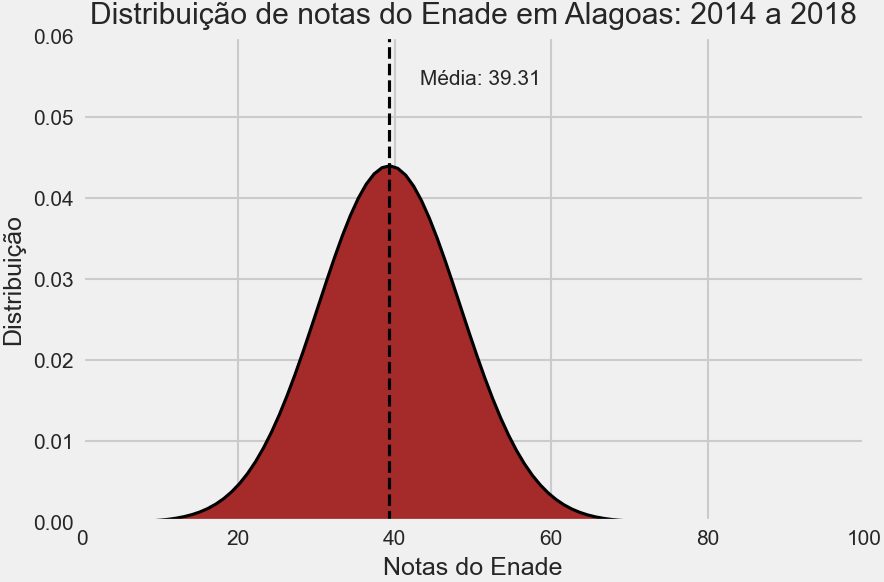
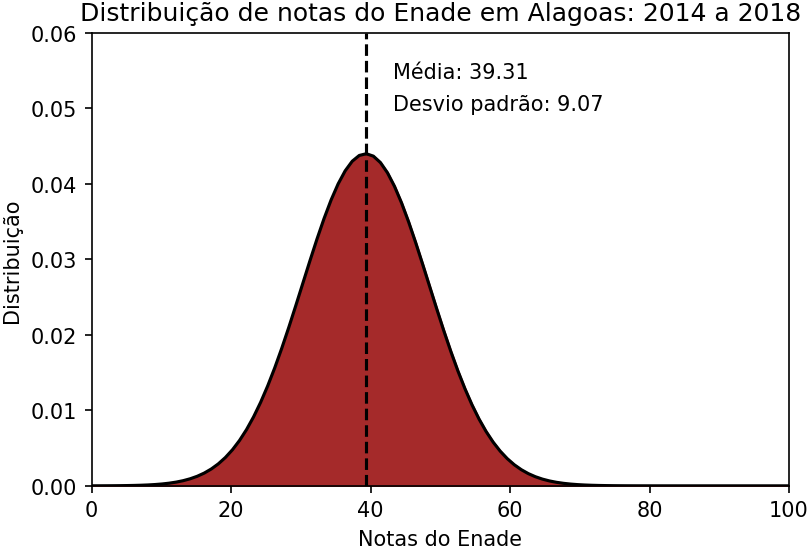
Fazendo a gaussiana.

Changed region(s): [[0.0, 0.0, 1.0, 1.0]]

diff --git a/compare_methods/analise_al.py b/compare_methods/analise_al.py
@@ -226,8 +226,280 @@ rows_stats_al = {'Version':0,
 file_stats_al = "../tcc_codes/analise_stats/AL/Stats_AL.csv"
 
 version_file(file_stats_al, fields_stats_al, rows_stats_al)
+#%% Dataframe com Questionário do estudante
+# Ref: https://pandas.pydata.org/docs/user_guide/advanced.html
+
+
+df_qe_aux = pd.DataFrame([['QE_I01', 'Estado civil','A:Solteiro(a)'],
+          ['QE_I01', 'Estado civil','B:Casado(a)'],
+          ['QE_I01', 'Estado civil','C:Separado(a)'],
+          ['QE_I01', 'Estado civil','D:Viúvo(a)'],
+          ['QE_I01', 'Estado civil','E:Outro'],
+          
+          ['QE_I02', 'Cor ou raça', 'A:Branca'],
+          ['QE_I02', 'Cor ou raça', 'B:Preta'],
+          ['QE_I02', 'Cor ou raça', 'C:Amarela'],
+          ['QE_I02', 'Cor ou raça', 'D:Parda'],
+          ['QE_I02', 'Cor ou raça', 'E:Indígena'],
+          ['QE_I02', 'Cor ou raça', 'F:Não quero declarar'],
+          
+          ['QE_I03',  'Nacionalidade?','A:Brasileira'],
+          ['QE_I03',  'Nacionalidade?','A:Brasileira naturalizada'],
+          ['QE_I03',  'Nacionalidade?','A:Estrageira'],
+          
+          ['QE_I04', 'Escolarização máxima do pai','A:Nenhuma'],
+          ['QE_I04', 'Escolarização máxima do pai','B:Fundamental: 1º ao 5º ano'],
+          ['QE_I04', 'Escolarização máxima do pai','C:Fundamental: 6º ao 9º ano'],
+          ['QE_I04', 'Escolarização máxima do pai','D:Ensino Médio'],
+          ['QE_I04', 'Escolarização máxima do pai','E:Ensino superior'],
+          ['QE_I04', 'Escolarização máxima do pai','F:Pós-graduação'],
+          
+          ['QE_I04', 'Escolarização máxima do mãe','A:Nenhuma'],
+          ['QE_I04', 'Escolarização máxima do mãe','B:Fundamental: 1º ao 5º ano'],
+          ['QE_I04', 'Escolarização máxima do mãe','C:Fundamental: 6º ao 9º ano'],
+          ['QE_I04', 'Escolarização máxima do mãe','D:Ensino Médio'],
+          ['QE_I04', 'Escolarização máxima do mãe','E:Ensino superior'],
+          ['QE_I04', 'Escolarização máxima do mãe','F:Pós-graduação'],
+          
+          ['QE_I06', 'Onde e com quem o estudante mora','A:Casa/apartamento,sozinho'],
+          ['QE_I06', 'Onde e com quem o estudante mora','B:Casa/apartamento,pais/parentes'],
+          ['QE_I06', 'Onde e com quem o estudante mora','C:Casa/apartamento,cônjugue/filhos'],
+          ['QE_I06', 'Onde e com quem o estudante mora','D:Casa/apartamento/república,com outras pessoas'],
+          ['QE_I06', 'Onde e com quem o estudante mora','E:Alojamento na IES'],
+          ['QE_I06', 'Onde e com quem o estudante mora','F:Outros (hotel,hospedaria,etc)'],
+          
+          ['QE_I07', 'Pessoas da família que moram com o estudante','A:Nenhuma'],
+          ['QE_I07', 'Pessoas da família que moram com o estudante','B:Uma'],
+          ['QE_I07', 'Pessoas da família que moram com o estudante','C:Duas'],
+          ['QE_I07', 'Pessoas da família que moram com o estudante','D:Três'],
+          ['QE_I07', 'Pessoas da família que moram com o estudante','E:Quatro'],
+          ['QE_I07', 'Pessoas da família que moram com o estudante','F:Cinco'],
+          ['QE_I07', 'Pessoas da família que moram com o estudante','G:Seis'],
+          ['QE_I07', 'Pessoas da família que moram com o estudante','H:Sete ou mais'],
+          
+          ['QE_I08', 'Renda total da família (incluindo rendimento do estudante)',
+           'A:Até R$1.431,00'],
+          ['QE_I08', 'Renda total da família (incluindo rendimento do estudante)',
+           'B:De R$1.431,01 a R$2.862,00'],
+          ['QE_I08', 'Renda total da família (incluindo rendimento do estudante)',
+           'C:De R$2.862,01 a R$4.293,00'],
+          ['QE_I08', 'Renda total da família (incluindo rendimento do estudante)',
+           'D:De R$4.293,01 a R$5.724,00'],
+          ['QE_I08', 'Renda total da família (incluindo rendimento do estudante)',
+           'E:De R$5.274,01 a R$9.540,00'],
+          ['QE_I08', 'Renda total da família (incluindo rendimento do estudante)',
+           'F:De R$9.540,01 a R$28.620,00'],
+          ['QE_I08', 'Renda total da família (incluindo rendimento do estudante)',
+           'G:Mais de R$28.620,00'],
+          
+          ['QE_I09', 'Situação financeira atual','A:Sem renda;gastos por programas do governo'],
+          ['QE_I09', 'Situação financeira atual','B:Sem renda;gastos pela família ou outras pessoas'],
+          ['QE_I09', 'Situação financeira atual','C:Com renda;recebo auxílio de outras pessoas'],
+          ['QE_I09', 'Situação financeira atual','D:Com renda;não preciso de ajuda financeira'],
+          ['QE_I09', 'Situação financeira atual','E:Com renda;ajudo a família'],
+          ['QE_I09', 'Situação financeira atual','F:Responsável pelo sustento da família'],
+          
+          ['QE_I10', 'Situação atual de trabalho','A:Não trabalho'],
+          ['QE_I10', 'Situação atual de trabalho','B:Trabalho eventualmente'],
+          ['QE_I10', 'Situação atual de trabalho','C:Até 20h/semana'],
+          ['QE_I10', 'Situação atual de trabalho','D:De 21h/semana a 39h/semana'],
+          ['QE_I10', 'Situação atual de trabalho','E:Pelo menos 40h/semana'],
+          
+          ['QE_I11', 'Tipo de financiamento recebido p/ custeio das mensalidades',
+           'A:Nenhum;curso gratuito'],
+          ['QE_I11', 'Tipo de financiamento recebido p/ custeio das mensalidades',
+           'B:Nenhum;curso pago'],
+          ['QE_I11', 'Tipo de financiamento recebido p/ custeio das mensalidades',
+           'C:ProUni integral'],
+          ['QE_I11', 'Tipo de financiamento recebido p/ custeio das mensalidades',
+           'D:ProUni parcial,apenas'],
+          ['QE_I11', 'Tipo de financiamento recebido p/ custeio das mensalidades',
+           'E:FIES,apenas'],
+          ['QE_I11', 'Tipo de financiamento recebido p/ custeio das mensalidades',
+           'F:ProUni parcial e FIES'],
+          ['QE_I11', 'Tipo de financiamento recebido p/ custeio das mensalidades',
+           'G:Bolsa pelo estado,governo ou município'],
+          ['QE_I11', 'Tipo de financiamento recebido p/ custeio das mensalidades',
+           'H:Bolsa pela IES'],
+          ['QE_I11', 'Tipo de financiamento recebido p/ custeio das mensalidades',
+           'I:Bolsa por outra entidade'],
+          ['QE_I11', 'Tipo de financiamento recebido p/ custeio das mensalidades',
+           'J:Financiamento pela IES'],
+          ['QE_I11', 'Tipo de financiamento recebido p/ custeio das mensalidades',
+           'K:Financiamento bancário'],
+          
+          ['QE_I12', 'Tipo de bolsa de permanência durante da graduação','A:Nenhum'],
+          ['QE_I12', 'Tipo de bolsa de permanência durante da graduação','B:Aux.moradia'],
+          ['QE_I12', 'Tipo de bolsa de permanência durante da graduação','C:Aux.alimentação'],
+          ['QE_I12', 'Tipo de bolsa de permanência durante da graduação','D:Aux.moradia e alimentaçãos'],
+          ['QE_I12', 'Tipo de bolsa de permanência durante da graduação','E:Aux.permanência'],
+          ['QE_I12', 'Tipo de bolsa de permanência durante da graduação','F:Outro'],
+          
+          ['QE_I13', 'Tipo de bolsa acadêmica durante a graduação','A:Nenhum'],
+          ['QE_I13', 'Tipo de bolsa acadêmica durante a graduação','B:PIBIC'],
+          ['QE_I13', 'Tipo de bolsa acadêmica durante a graduação','C:Extensão'],
+          ['QE_I13', 'Tipo de bolsa acadêmica durante a graduação','D:Monitoria/tutoria'],
+          ['QE_I13', 'Tipo de bolsa acadêmica durante a graduação','E:PET'],
+          ['QE_I13', 'Tipo de bolsa acadêmica durante a graduação','F:Outro'],
+          
+          ['QE_I14', 'Participação de programas e/ou atividades curriculares no exterior',
+           'A:Não participei'],
+          ['QE_I14', 'Participação de programas e/ou atividades curriculares no exterior',
+           'B:Sim;Ciência sem Fronteiras'],
+          ['QE_I14', 'Participação de programas e/ou atividades curriculares no exterior',
+           'C:Sim;Finan.:Gov.Federal(Marca,PLI,outro)'],
+          ['QE_I14', 'Participação de programas e/ou atividades curriculares no exterior',
+           'D:Sim;Finan.:Gov.Estadual'],
+          ['QE_I14', 'Participação de programas e/ou atividades curriculares no exterior',
+           'E:Sim;Finan.:pela IES'],
+          ['QE_I14', 'Participação de programas e/ou atividades curriculares no exterior',
+           'F:Sim;Outro não Institucional'],
+          
+          ['QE_I15', 'Ingresso por ação afrimativa e critério','A:Não'],
+          ['QE_I15', 'Ingresso por ação afrimativa','B:Sim;étnico-racial'],
+          ['QE_I15', 'Ingresso por ação afrimativa','C:Sim;renda'],
+          ['QE_I15', 'Ingresso por ação afrimativa','D:Sim;esc.pública/bolsa esc. privada'],
+          ['QE_I15', 'Ingresso por ação afrimativa','E:Sim;2 ou mais critérios anteriores'],
+          ['QE_I15', 'Ingresso por ação afrimativa','F:Sim;outro critério'],
+          
+          ['QE_I16', 'Unidade da Federação que concluiu o ensino médio','11:Rondônia'],
+          ['QE_I16', 'Unidade da Federação que concluiu o ensino médio','12:Acre'],
+          ['QE_I16', 'Unidade da Federação que concluiu o ensino médio','13:Amazonas'],
+          ['QE_I16', 'Unidade da Federação que concluiu o ensino médio','14:Roraima'],
+          ['QE_I16', 'Unidade da Federação que concluiu o ensino médio','15:Pará'],
+          ['QE_I16', 'Unidade da Federação que concluiu o ensino médio','16:Amapá'],
+          ['QE_I16', 'Unidade da Federação que concluiu o ensino médio','17:Tocantins'],
+          ['QE_I16', 'Unidade da Federação que concluiu o ensino médio','21:Maranhão'],
+          ['QE_I16', 'Unidade da Federação que concluiu o ensino médio','22:Piauí'],
+          ['QE_I16', 'Unidade da Federação que concluiu o ensino médio','23:Ceará'],
+          ['QE_I16', 'Unidade da Federação que concluiu o ensino médio','24:Rio Grande do Norte'],
+          ['QE_I16', 'Unidade da Federação que concluiu o ensino médio','25:Paraíba'],
+          ['QE_I16', 'Unidade da Federação que concluiu o ensino médio','26:Pernambuco'],
+          ['QE_I16', 'Unidade da Federação que concluiu o ensino médio','27:Alagoas'],
+          ['QE_I16', 'Unidade da Federação que concluiu o ensino médio','28:Sergipe'],
+          ['QE_I16', 'Unidade da Federação que concluiu o ensino médio','29:Bahia'],
+          ['QE_I16', 'Unidade da Federação que concluiu o ensino médio','31:Minas Gerais'],
+          ['QE_I16', 'Unidade da Federação que concluiu o ensino médio','33:Espírito Santo'],
+          ['QE_I16', 'Unidade da Federação que concluiu o ensino médio','35:São Paulo'],
+          ['QE_I16', 'Unidade da Federação que concluiu o ensino médio','41:Paraná'],
+          ['QE_I16', 'Unidade da Federação que concluiu o ensino médio','42:Santa Catarina'],
+          ['QE_I16', 'Unidade da Federação que concluiu o ensino médio','43:Rio Grande do Sul'],
+          ['QE_I16', 'Unidade da Federação que concluiu o ensino médio','50:Mato Grosso do Sul'],
+          ['QE_I16', 'Unidade da Federação que concluiu o ensino médio','51:Mato Grosso'],
+          ['QE_I16', 'Unidade da Federação que concluiu o ensino médio','52:Goiás'],
+          ['QE_I16', 'Unidade da Federação que concluiu o ensino médio','53:Distrito Federal'],
+          ['QE_I16', 'Unidade da Federação que concluiu o ensino médio','99:Não se aplica'],
+          
+          
+          ['QE_I17', 'Tipo de escola que cursou o ensino médio','A:Todo em pública'],
+          ['QE_I17', 'Tipo de escola que cursou o ensino médio','B:Todo em particular'],
+          ['QE_I17', 'Tipo de escola que cursou o ensino médio','C:Todo no exterior'],
+          ['QE_I17', 'Tipo de escola que cursou o ensino médio','D:Maior parte em pública'],
+          ['QE_I17', 'Tipo de escola que cursou o ensino médio','E:Maior parte em particular'],
+          ['QE_I17', 'Tipo de escola que cursou o ensino médio','F:Brasil e exterior'],
+          
+          
+          ['QE_I18', 'Modalidade de ensino médio','A:Tradicional'], 
+          ['QE_I18', 'Modalidade de ensino médio','B:Profissionalizante técnico'], 
+          ['QE_I18', 'Modalidade de ensino médio','C:Profissionalizante magistério'], 
+          ['QE_I18', 'Modalidade de ensino médio','D:EJA e/ou Supletivo'], 
+          ['QE_I18', 'Modalidade de ensino médio','E:Outro'], 
+          
+          ['QE_I19', 'Pessoa que mais incentivou a cursar a graduação','A:Ninguém'], 
+          ['QE_I19', 'Pessoa que mais incentivou a cursar a graduação','B:Pais'], 
+          ['QE_I19', 'Pessoa que mais incentivou a cursar a graduação','C:Outros membros da família'], 
+          ['QE_I19', 'Pessoa que mais incentivou a cursar a graduação','D:Professores'], 
+          ['QE_I19', 'Pessoa que mais incentivou a cursar a graduação','E:Líder religioso'], 
+          ['QE_I19', 'Pessoa que mais incentivou a cursar a graduação','F:Colegas/amigos'], 
+          ['QE_I19', 'Pessoa que mais incentivou a cursar a graduação','G:Outras pessoas'],
+          
+          ['QE_I20', 'Grupo(s) decisivo que o ajudou a enfrentar dificuldades durante o curso',
+           'A:Sem dificuldades'],
+          ['QE_I20', 'Grupo(s) decisivo que o ajudou a enfrentar dificuldades durante o curso',
+           'B:Não recebi apoio'],
+          ['QE_I20', 'Grupo(s) decisivo que o ajudou a enfrentar dificuldades durante o curso',
+           'C:Pais'],
+          ['QE_I20', 'Grupo(s) decisivo que o ajudou a enfrentar dificuldades durante o curso',
+           'D:Avós'],
+          ['QE_I20', 'Grupo(s) decisivo que o ajudou a enfrentar dificuldades durante o curso',
+           'E:Irmãos/primos/tios'],
+          ['QE_I20', 'Grupo(s) decisivo que o ajudou a enfrentar dificuldades durante o curso',
+           'F:Líder religioso'],
+          ['QE_I20', 'Grupo(s) decisivo que o ajudou a enfrentar dificuldades durante o curso',
+           'G:Colegas de curso/amigos'],
+          ['QE_I20', 'Grupo(s) decisivo que o ajudou a enfrentar dificuldades durante o curso',
+           'I:Profissionais de apoio da IES'],
+          ['QE_I20', 'Grupo(s) decisivo que o ajudou a enfrentar dificuldades durante o curso',
+           'J:Colegas de trabalho'],
+          ['QE_I20', 'Grupo(s) decisivo que o ajudou a enfrentar dificuldades durante o curso',
+           'K:Outro'],
+          
+          ['QE_I21', 'Alguém em sua família concluiu um curso superior','A:Sim'],
+          ['QE_I21', 'Alguém em sua família concluiu um curso superior','B:Não'],
+          
+          ['QE_I22', 'Livros lido no ano do Enade (excluindo a bibliografia do curso)',
+           'A:Nenhum'],
+          ['QE_I22', 'Livros lido no ano do Enade (excluindo a bibliografia do curso)',
+           'B:Um/Dois'],
+          ['QE_I22', 'Livros lido no ano do Enade (excluindo a bibliografia do curso)',
+           'C:Três a cinco'],
+          ['QE_I22', 'Livros lido no ano do Enade (excluindo a bibliografia do curso)',
+           'D:Oito a doze'],
+          ['QE_I22', 'Livros lido no ano do Enade (excluindo a bibliografia do curso)',
+           'E:Mais de doze'],
+          
+          ['QE_I23', 'Horas de estudo por semana (excluindo aulas)','A:Nenhuma'],
+          ['QE_I23', 'Horas de estudo por semana (excluindo aulas)','B:Uma a três'],
+          ['QE_I23', 'Horas de estudo por semana (excluindo aulas)','C:Quatro a sete'],
+          ['QE_I23', 'Horas de estudo por semana (excluindo aulas)','D:Oito a doze'],
+          ['QE_I23', 'Horas de estudo por semana (excluindo aulas)','E:Mais de doze'],
+          
+          ['QE_I24', 'Oportunidade de aprendizado de idioma estrangeiro na IES',
+           'A:Sim;apenas presencial'],
+          ['QE_I24', 'Oportunidade de aprendizado de idioma estrangeiro na IES',
+           'B:Sim;apenas semipresencial'],
+          ['QE_I24', 'Oportunidade de aprendizado de idioma estrangeiro na IES',
+           'C:Sim;presencial e semipresencial'],
+          ['QE_I24', 'Oportunidade de aprendizado de idioma estrangeiro na IES',
+           'D:Sim;EAD'],
+          ['QE_I24', 'Oportunidade de aprendizado de idioma estrangeiro na IES',
+           'E:Não'],
+          
+          ['QE_I25', 'Principal motivo de escolha do curso',
+           'A:Inserção no mercado de trabalho'],
+          ['QE_I25', 'Principal motivo de escolha do curso',
+           'B:Influência familiar'],
+          ['QE_I25', 'Principal motivo de escolha do curso',
+           'C:Valorização profissional'],
+          ['QE_I25', 'Principal motivo de escolha do curso',
+           'D:Prestígio social'],
+          ['QE_I25', 'Principal motivo de escolha do curso',
+           'E:Vocação'],
+          ['QE_I25', 'Principal motivo de escolha do curso',
+           'F:Porque é EAD'],
+          ['QE_I25', 'Principal motivo de escolha do curso',
+           'G:Baixa concorrência no ingresso'],
+          ['QE_I25', 'Principal motivo de escolha do curso',
+           'H:Outro'],
+          
+          
+          ['QE_I26', 'Principal motivo de escolha da IES','A:Gratuidade'],
+          ['QE_I26', 'Principal motivo de escolha da IES','B:Preço da mensalidade'],
+          ['QE_I26', 'Principal motivo de escolha da IES','C:Prox. da residência'],
+          ['QE_I26', 'Principal motivo de escolha da IES','D:Prox. do trabalho'],
+          ['QE_I26', 'Principal motivo de escolha da IES','E:Facilidade de acesso'],
+          ['QE_I26', 'Principal motivo de escolha da IES','F:Qualidade/reputação'],
+          ['QE_I26', 'Principal motivo de escolha da IES','G:Foi a única onde ingressei'],
+          ['QE_I26', 'Principal motivo de escolha da IES','H:Possibilidade de bolsa'],
+          ['QE_I26', 'Principal motivo de escolha da IES','I:Outro']],
+                         columns=['cod_qe','description','alternatives'])
+              
+#tuples = list(zip(cod_qe, description))
+
+df_qe = pd.MultiIndex.from_frame(df_qe_aux)
 #%% Gaussiana com matplotlib da distribuição anterior
 print("Matplotlib version: ",matplotlib.__version__)
+print("Pandas version", pd.__version__)
 font = {'family' : 'sans-serif',
         'weight' : 'normal',
         'size'   : 10}
@@ -253,6 +525,8 @@ plt.fill_between(x_al, p_al, color='brown')# Ref: https://moonbooks.org/Articles
 plt.axvline(labels_al.mean(), color='k', linestyle='dashed', linewidth=1.5)
 plt.text(labels_al.mean()*1.1, max_ylim*0.9, 'Média: {:.2f}'
          .format(labels_al.mean()))
+plt.text(labels_al.mean()*1.1, max_ylim*0.83, 'Desvio padrão: {:.2f}'
+         .format(labels_al.std()))
 plt.title("Distribuição de notas do Enade em Alagoas: 2014 a 2018")
 plt.xlabel('Notas do Enade');
 plt.ylabel('Distribuição');
@@ -265,6 +539,8 @@ plt.savefig('../tcc_codes/analise_stats/AL/imagens/DIST_NOTA_AL.png',
 #fig.suptitle('Distribuição de notas do Enade de Alagoas: QE_I02')
 
 qe_i02 = dataset_al[["QE_I02", "NT_GER"]]
+
+desc_qe_i02 = []
 
 #plt.set_title(r'Distribuição de notas do Enade de 2014 a 2018: Alagoas - Categoria QE_I02')
 # Dica: você deve estar na pasta tcc_codes (Variable explorer)
